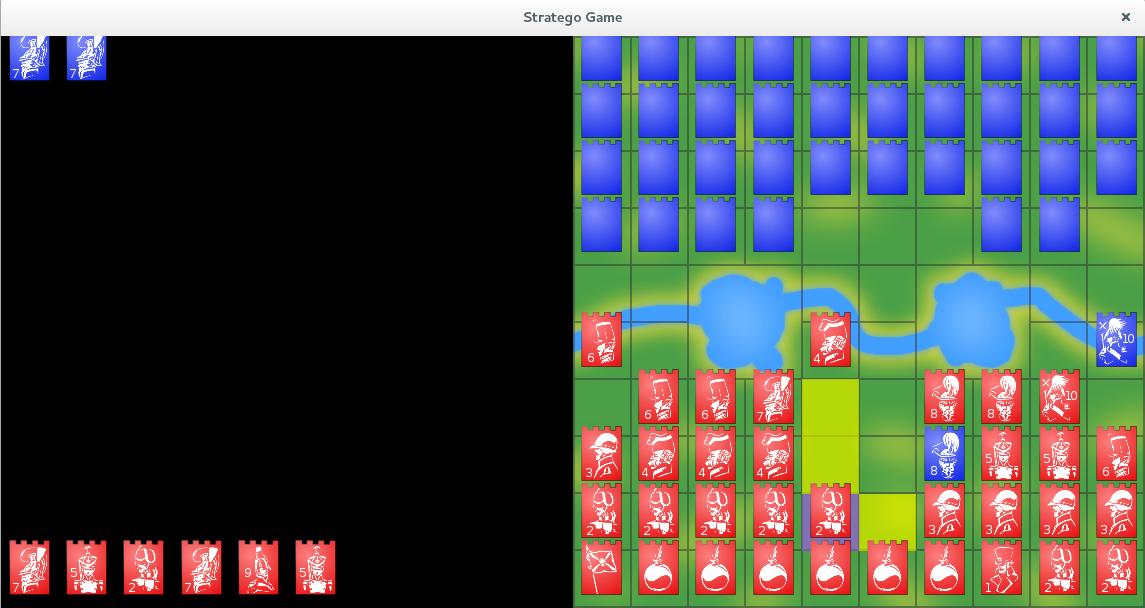
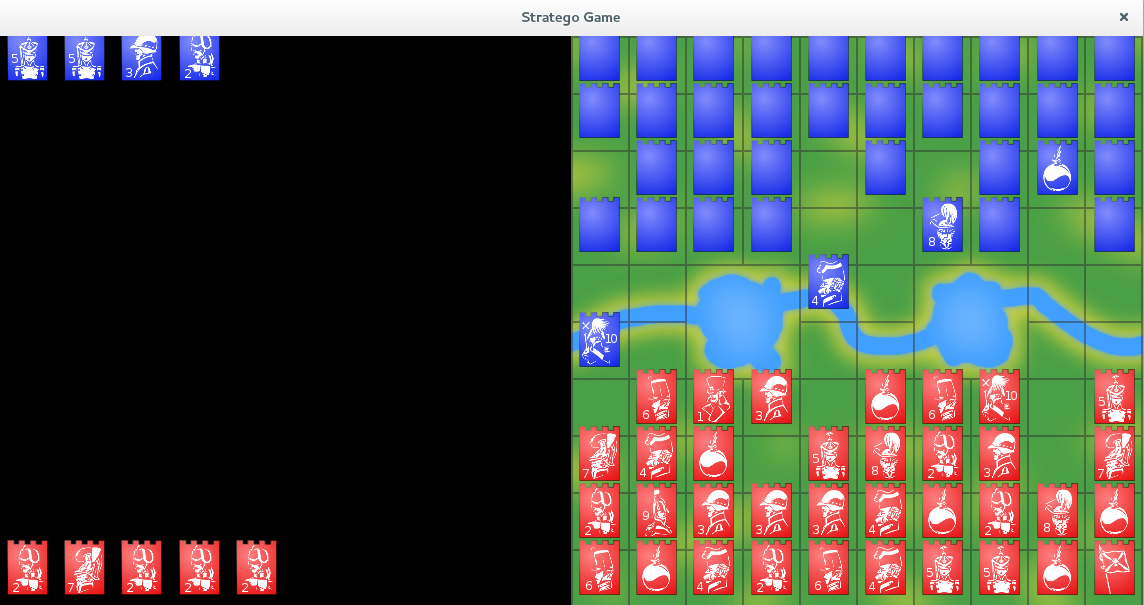
remove bug box

Changed region(s): [[0.4589, 0.0, 1.0, 1.0], [0.0, 0.8628, 0.3059, 0.9818], [0.0, 0.0595, 0.2142, 0.1488]]

diff --git a/GUI.cpp b/GUI.cpp
@@ -12,6 +12,7 @@ namespace GUI {
 		this->mousePressed = false;
 
 		this->play = false; // play = true when playing, false when filling the board
+		this->boxPiece = NULL; // boxPiece selected to be put in the field
 
 		// Text used to display messages (draw, win)
 		messageFont.loadFromFile("polices/angelina.ttf");
@@ -90,10 +91,12 @@ namespace GUI {
 			if(board.getBoardBox(BLUE)->getBox()->empty()) {
 				play = true;
 				mousePressed = false;
+				board.setState(RED);
 				return;
 			}
 			else {
 				color = BLUE; // when RED player is finished, it's at blue player to fill its board
+				board.setState(color);
 			}
 		}
 
@@ -105,40 +108,16 @@ namespace GUI {
 			Position tempPosTo(mousePosTo.x * 10 / this->boxView.getSize().x, mousePosTo.y * 10 / this->boxView.getSize().y);
 			tempPosFrom.y = 9 - tempPosFrom.y; // SFML reverse repere in Y
 			tempPosTo.y = 9 - tempPosTo.y; // SFML reverse repere in Y
-			Piece* tempPiece;
-
-			//TODO understand pointers things that make errors !!!
 
 			if(boxSelected) {
-				std::cout << "Color ";
-				std::cout << tempPiece->getColor() << std::endl;
-				std::cout << "Id ";
-				std::cout << tempPiece->getId() << std::endl;
-				std::cout << "Value ";
-				std::cout << tempPiece->getValue() << std::endl;
-				std::cout << "Position";
-				std::cout << tempPiece->getPosition().x;
-				std::cout << " ";
-				std::cout << tempPiece->getPosition().y << std::endl;
-
-				board.putPiece(tempPiece, tempPosTo, true);
+				board.putPiece(boxPiece,tempPosTo,true);
 				boxSelected = false;
 
-				std::cout << "Color ";
-				std::cout << board.getPiece(tempPiece->getPosition())->getColor() << std::endl;
-				std::cout << "Id ";
-				std::cout << board.getPiece(tempPiece->getPosition())->getId() << std::endl;
-				std::cout << "Value ";
-				std::cout << board.getPiece(tempPiece->getPosition())->getValue() << std::endl;
-				std::cout << "Position";
-				std::cout << board.getPiece(tempPiece->getPosition())->getPosition().x;
-				std::cout << " ";
-				std::cout << board.getPiece(tempPiece->getPosition())->getPosition().y << std::endl;
 			}
 			else {
 				for(int i=0;i<board.getBoardBox(color)->getBox()->size();i++) {
 					if(board.getBoardBox(color)->getBox()->at(i)->getPosition() == tempPosFrom) {
-						tempPiece = board.getBoardBox(color)->getBox()->at(i);
+						boxPiece = board.getBoardBox(color)->getBox()->at(i);
 						boxSelected = true;
 						break;
 					}
@@ -181,8 +160,14 @@ namespace GUI {
 		window->setView(window->getDefaultView());
 		if(play) drawMessage();
 		window->setView(boxView);
-		drawBox(RED);
-		drawBox(BLUE);
+		if(!play) {
+			drawBoxInBox(RED);
+			drawBoxInBox(BLUE);
+		}
+		else {
+			drawBoxInGame(RED);
+			drawBoxInGame(BLUE);
+		}
 		window->setView(gameView);
 		if ((board.getState() == REDPLAYS || board.getState() == BLUEPLAYS)) {
 			drawBoard();
@@ -253,9 +238,26 @@ namespace GUI {
 		}
 	}
 
+	// Draws the box before the game
+	void GUI::drawBoxInBox(bool color) {
+		for(int i=0;i<board.getBoardBox(color)->getBox()->size();i++) {
+			Vector2f Position = Vector2f(board.getBoardBox(color)->getBox()->at(i)->getPosition().x*this->boxView.getSize().x/10.f,(9-board.getBoardBox(color)->getBox()->at(i)->getPosition().y-0.2f)*this->boxView.getSize().y/10.f);
 
-	// Draws the box
-	void GUI::drawBox(bool color) {
+			if(color) {
+				piece_rouge.setPosition(Position);
+				window->draw(piece_rouge);
+			}
+			else {
+				piece_bleu.setPosition(Position);
+				window->draw(piece_bleu);
+			}
+			piecesSprite.at(board.getBoardBox(color)->getBox()->at(i)->getValue()).setPosition(Position);
+			window->draw(piecesSprite.at(board.getBoardBox(color)->getBox()->at(i)->getValue()));
+		}
+	}
+
+	// Draws the box during the game
+	void GUI::drawBoxInGame(bool color) {
 		int x = 0;
 		int y = 0;
 		if(color) y = 9;

diff --git a/Position.cpp b/Position.cpp
@@ -7,28 +7,46 @@ namespace Game {
 		this->y = 0;
 	}
 
+	// Creates new position (x, y)
 	Position::Position(int x, int y) {
 		this->x = x;
 		this->y = y;
 	}
 
+	// Checks if position is within bounds
 	bool Position::isValid() const {
 
 		if (!(x >= 0 && x < 10 && y >= 0 && y < 10)) { // Checks if Position in the zone
 			return false;
 		}
-		else {
-			if(((y==4) || (y==5)) && ((x==2) || (x==3) || (x==6) || (x==7))) { // Checks if the position is not forbidden
-				return false;
-			}
+		if(((y==4) || (y==5)) && ((x==2) || (x==3) || (x==6) || (x==7))) { // Checks if the position is not forbidden
+			return false;
 		}
 		return true;
 	}
 
+	// Checks if the position is correct to start
+	bool Position::isStartValid(bool color) const {
+
+		if(!this->isValid()) {
+			return false;
+		}
+		if((y>3) && (color)) {
+			return false;
+		}
+		if((y<6) && (!color)) {
+			return false;
+		}
+
+		return true;
+	}
+
+	// Overloaded == for Position
 	bool operator==(const Position& lhs, const Position& rhs) {
 		return (lhs.x == rhs.x) && (lhs.y == rhs.y);
 	}
 
+	// Overloaded != for Position
 	bool operator!=(const Position& lhs, const Position& rhs) {
 		return !(lhs == rhs);
 	}

diff --git a/Board.cpp b/Board.cpp
@@ -28,6 +28,16 @@ namespace Game {
 		return state;
 	}
 
+	// Gets the state of the game
+	void Board::setState(bool color) {
+		if(color) {
+			this->state = REDPLAYS;
+		}
+		else {
+			this->state = BLUEPLAYS;
+		}
+	}
+
 	//Gets red or blue box
 	Box* Board::getBoardBox(bool color) const {
 		if(color) return this->redBox;
@@ -88,6 +98,7 @@ namespace Game {
 	void Board::putPiece(Piece* p, const Position& position, bool outBox) {
 		if(!p) { return; } // protect from errors
 		if(outBox) {
+			if(!position.isStartValid(p->getColor())) { return; }
 			if(p->getColor()) { // Red
 				this->redBox->takeOutOfBox(p->getId());
 			}

diff --git a/Position.h b/Position.h
@@ -10,18 +10,16 @@ namespace Game {
 			int x;
 			int y;
 
-			// Create new position (x, y)
 			Position();
 			Position(int x, int y);
 
-			// Check if position is within bounds.
+
 			bool isValid() const;
+			bool isStartValid(bool color) const;
 	};
 
-	// Overloaded == for Position.
-	bool operator==(const Position& lhs, const Position& rhs);
 
-	// Overloaded != for Position.
+	bool operator==(const Position& lhs, const Position& rhs);
 	bool operator!=(const Position& lhs, const Position& rhs);
 }
 

diff --git a/GUI.h b/GUI.h
@@ -33,13 +33,16 @@ namespace GUI {
 			bool selected;
 			bool mousePressed;
 
+			Game::Piece* boxPiece;
+
 			bool play;
 
 			std::vector<Game::Position> highlights;
 
 			void drawBoard();
 			void drawPieces();
-			void drawBox(bool color);
+			void drawBoxInBox(bool color);
+			void drawBoxInGame(bool color);
 			void updateGame();
 			void updateBox();
 			void drawMessage();

diff --git a/Board.h b/Board.h
@@ -16,6 +16,7 @@ namespace Game {
 			Board();
 			~Board();
 			GameState getState() const;
+			void setState(bool color);
 			Piece* getPiece(const Position& position) const;
 			Box* getBoardBox(bool color) const;
 			bool isCaseFree(const Position& position) const;
